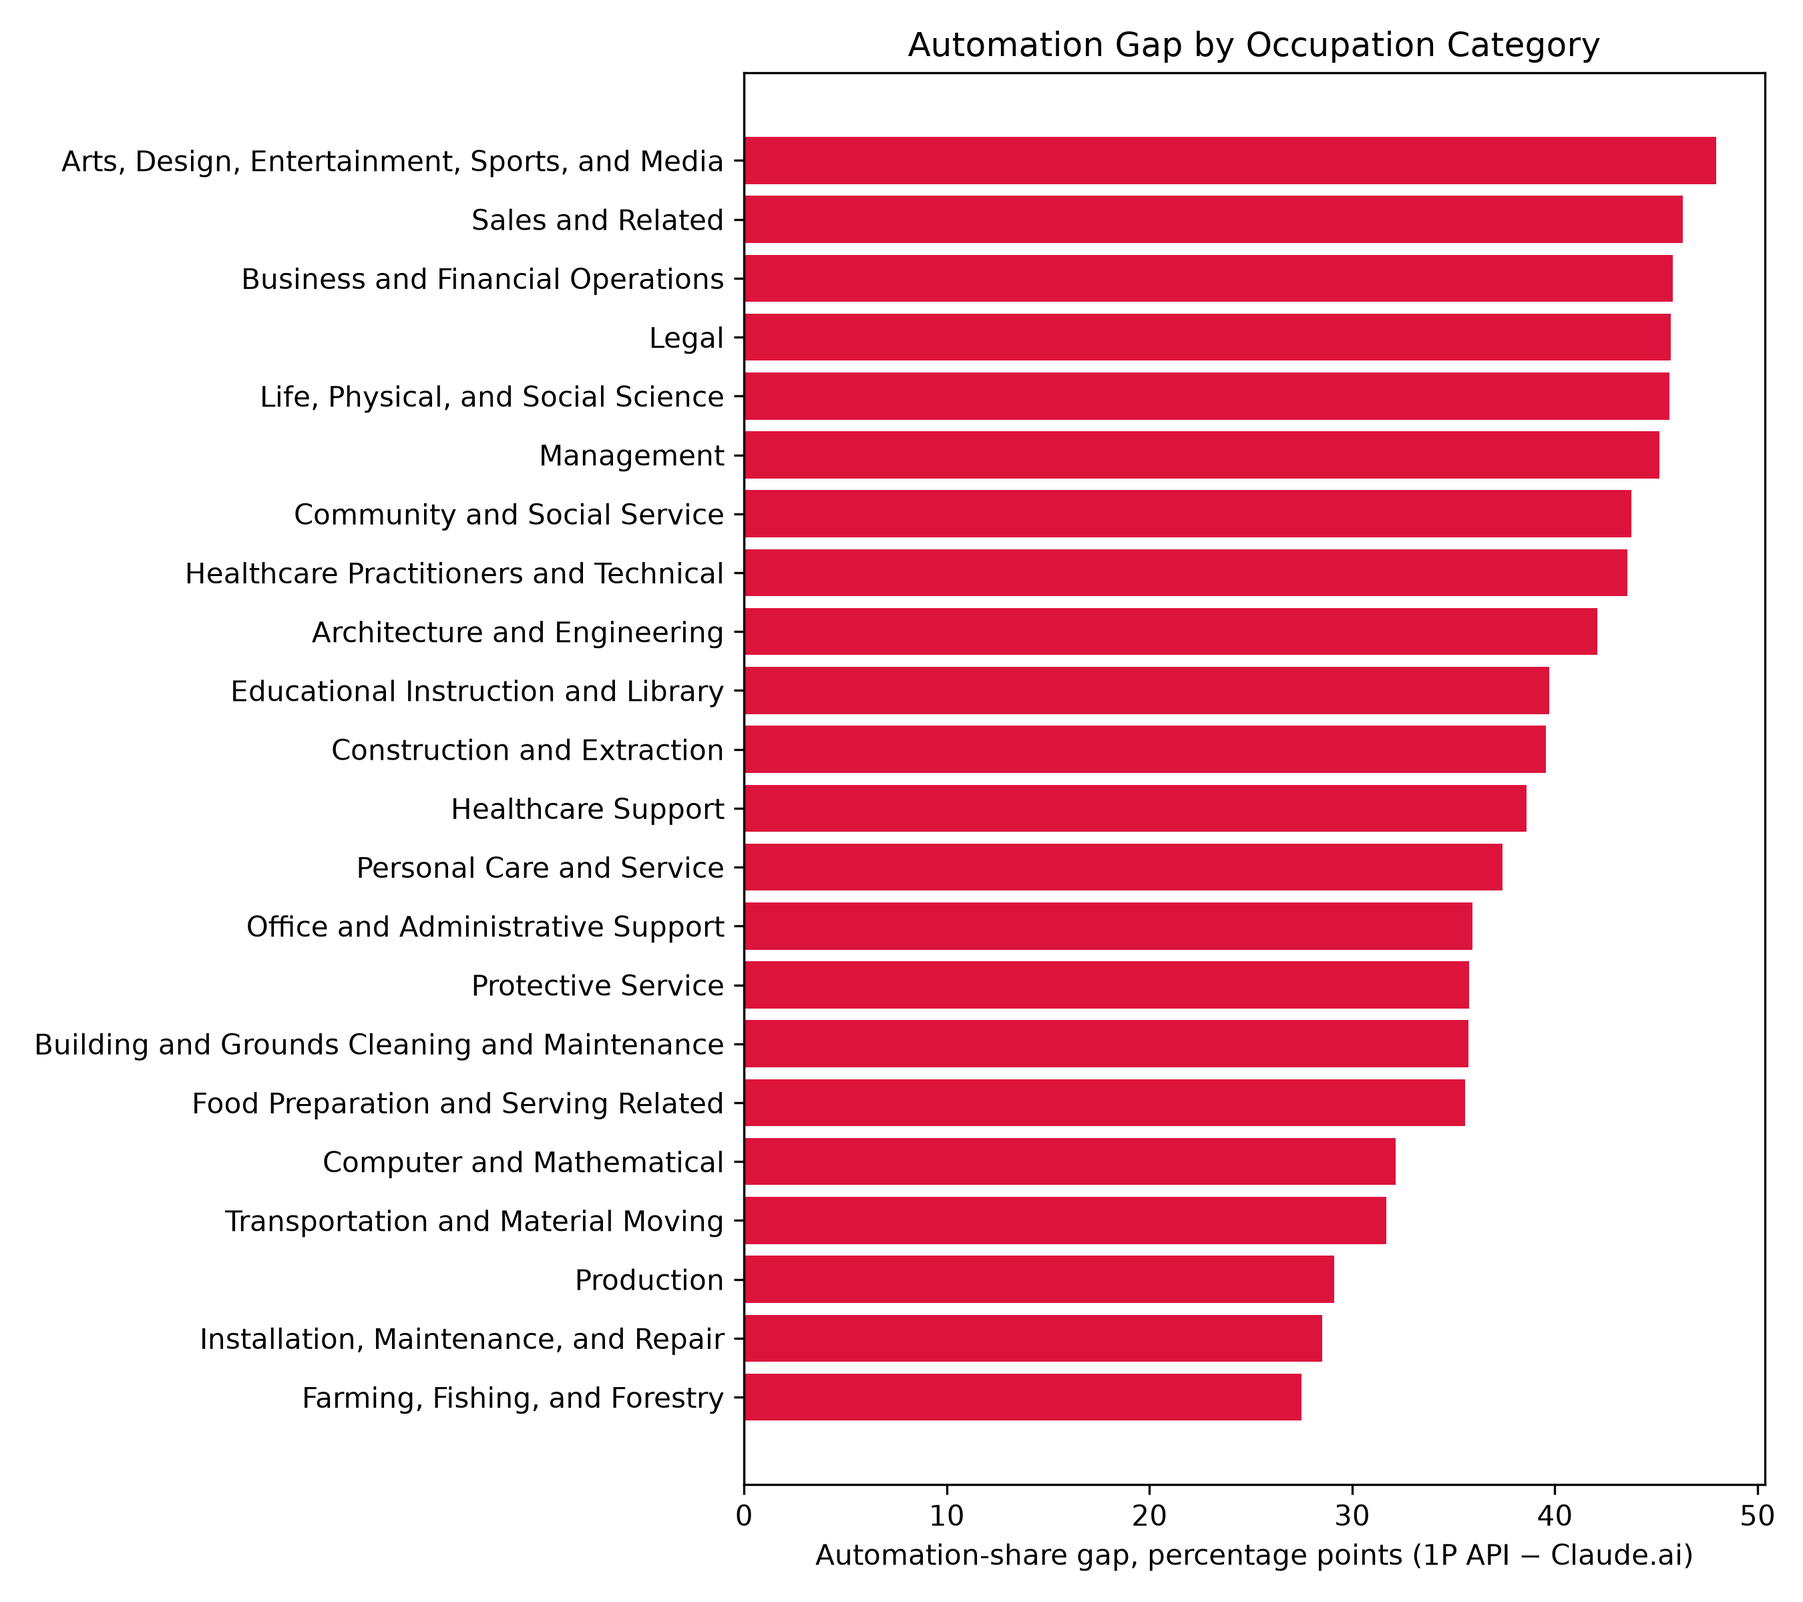
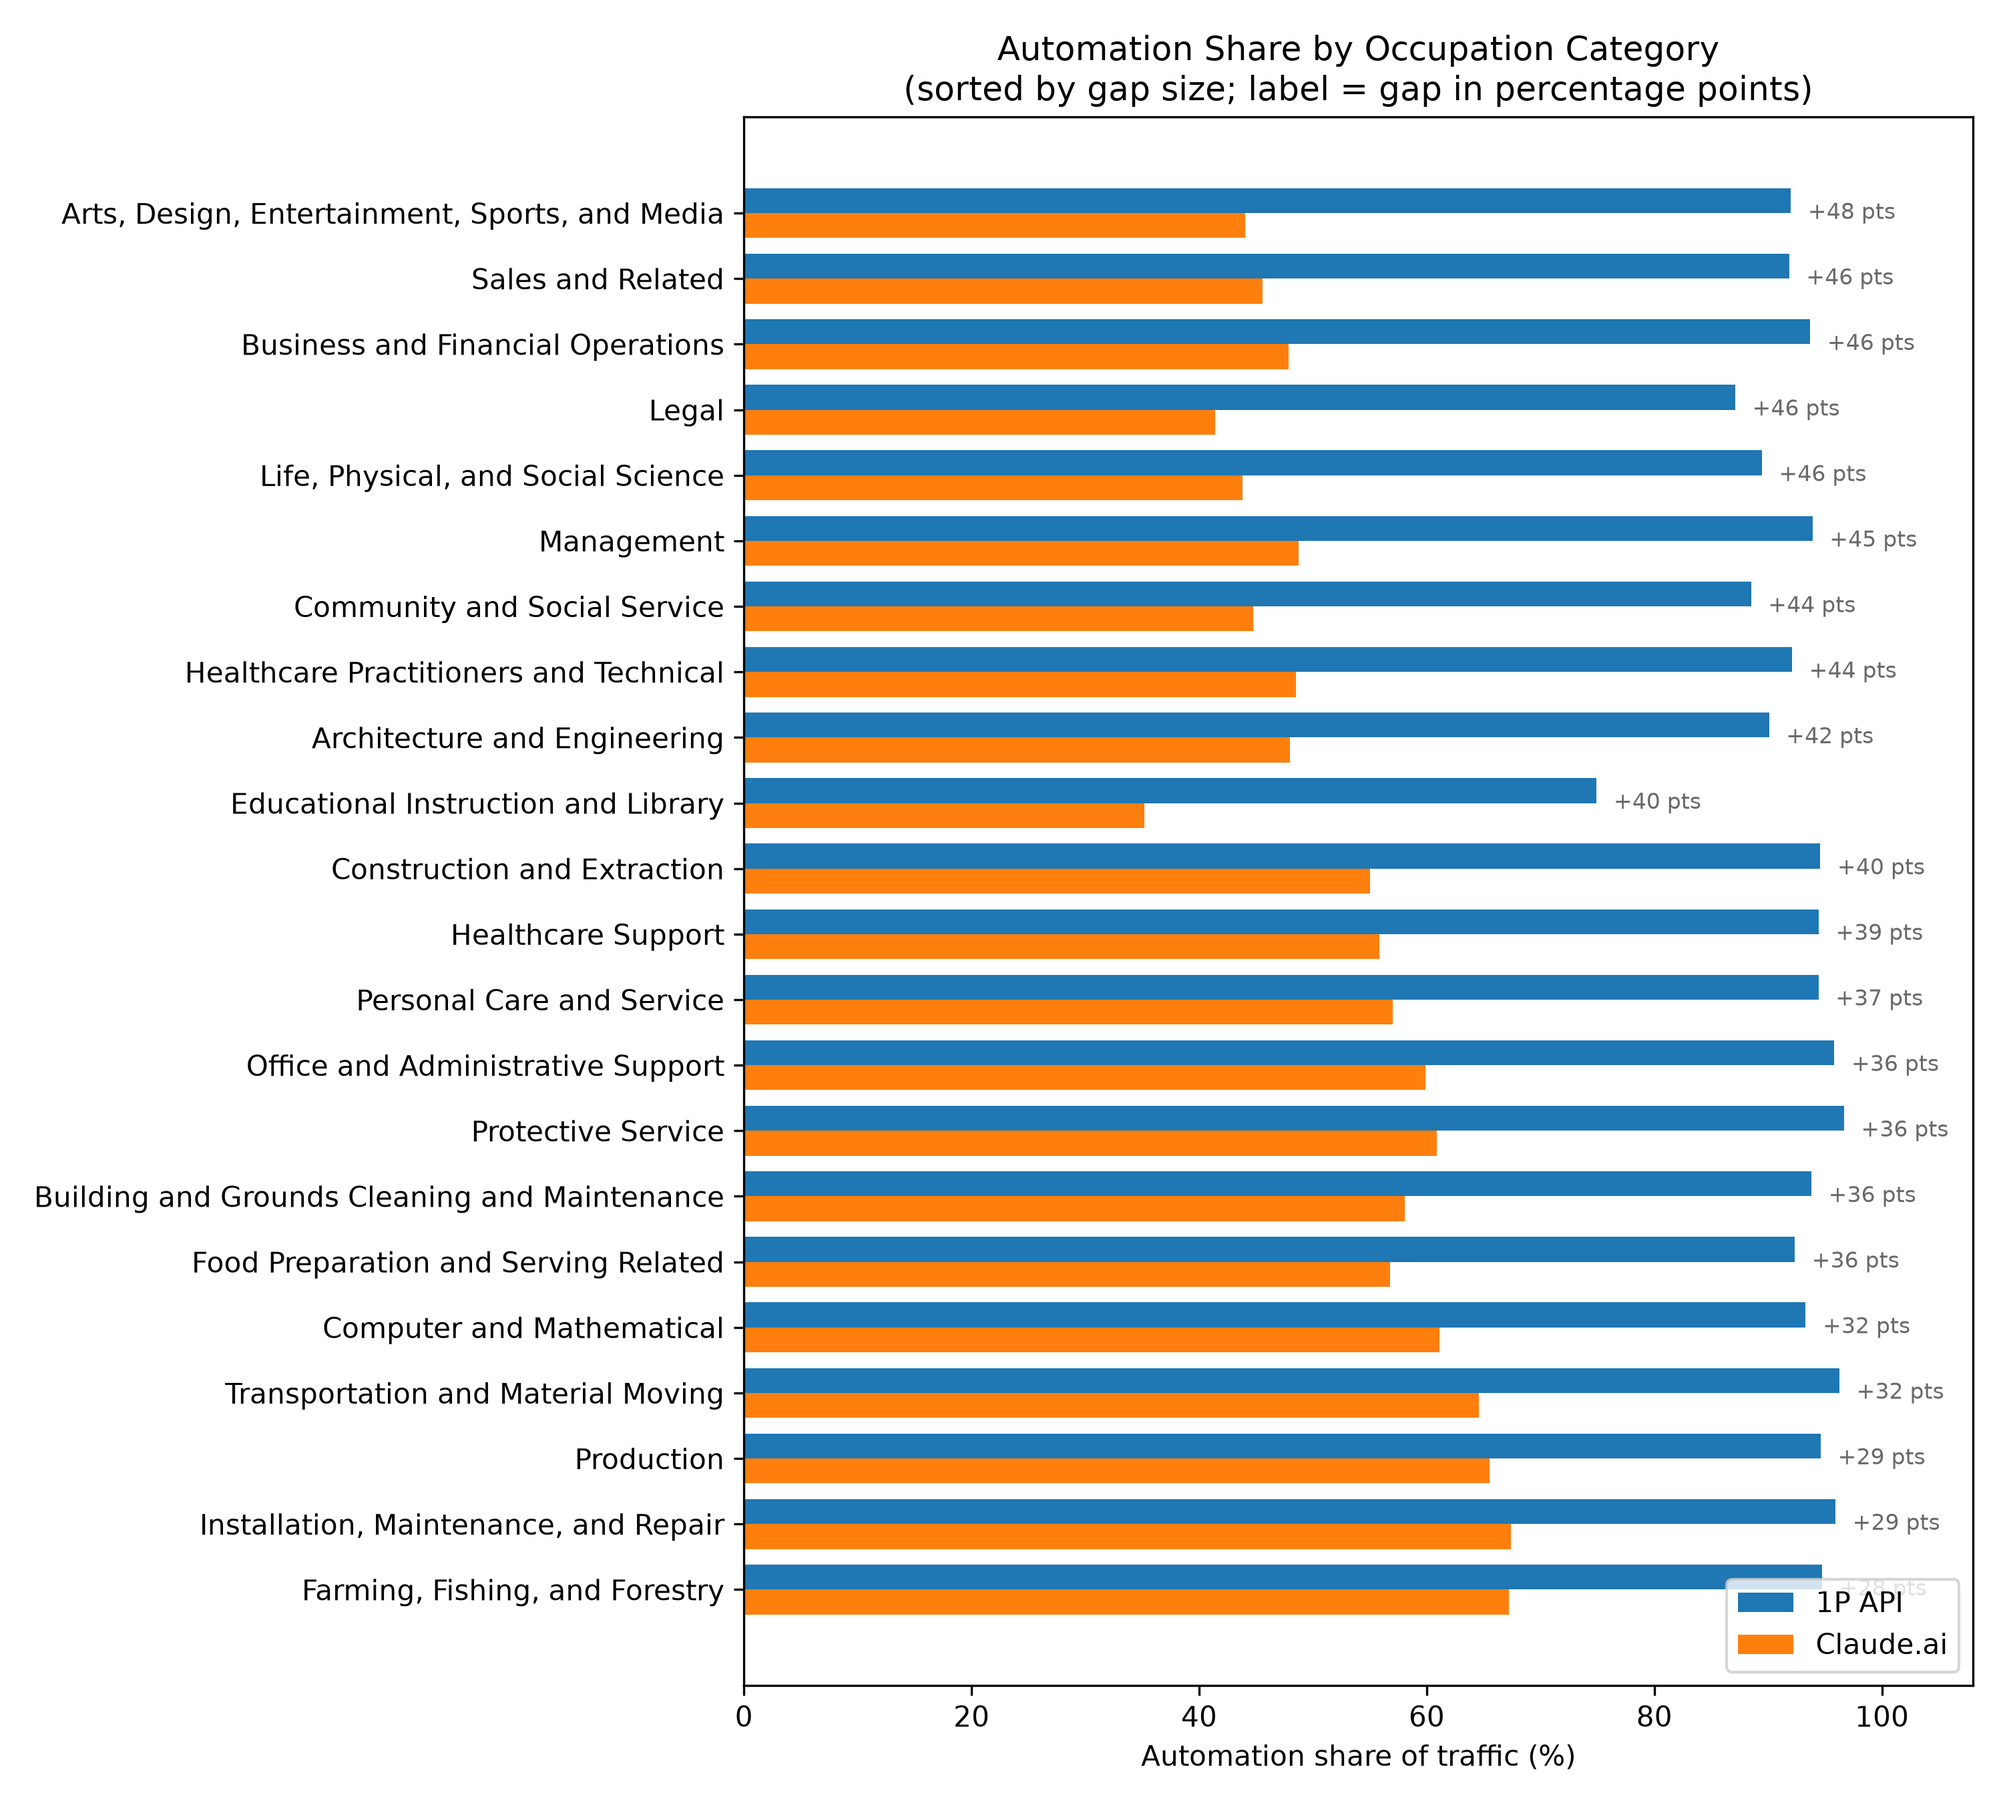
Updated Occupation category graph

diff --git a/src/profile.py b/src/profile.py
@@ -1,7 +1,7 @@
 from pathlib import Path
+import numpy as np
 import pandas as pd
 import matplotlib.pyplot as plt
-import numpy as np
 
 
 DATA_DIR = Path("data")
@@ -10,7 +10,11 @@ OUTPUT_DIR = DATA_DIR / "profile"
 CLAUDE_FILE = DATA_DIR / "aei_claude_ai_2026-06-26.csv"
 API_FILE = DATA_DIR / "aei_1p_api_2026-06-26.csv"
 
-
+# 2018 SOC major-group codes -> names. node_external_id for soc_occupation
+# rows is a detailed SOC code like "13-1199.06"; the first two digits are
+# the major group. This lets us roll ~800 detailed occupations up into the
+# ~23 broad "occupation categories" Q3 asks about, instead of only being
+# able to compare the handful of exact titles that show up in both top-10s.
 SOC_MAJOR_GROUPS = {
     "11": "Management",
     "13": "Business and Financial Operations",
@@ -41,17 +45,17 @@ COLLAB_METRICS = [
     "collaboration_bucket_automation_pct",
     "collaboration_bucket_augmentation_pct",
 ]
- 
 
 
 def load_data():
     claude = pd.read_csv(CLAUDE_FILE)
     api = pd.read_csv(API_FILE)
- 
+
     claude["source"] = "Claude.ai"
     api["source"] = "1P API"
- 
+
     return pd.concat([claude, api], ignore_index=True)
+
 
 def add_major_group(df):
     """Attach a SOC major-occupation-group label, for soc_occupation rows."""
@@ -71,19 +75,19 @@ def plot_collaboration(df):
         & (df["geo_level"] == "global")
         & (df["metric_id"].isin(COLLAB_METRICS))
     ]
- 
+
     if data.empty:
         print("No collaboration data available.")
         return
- 
+
     pivot = data.pivot_table(
         index="source", columns="metric_id", values="value", aggfunc="mean"
     )
- 
+
     ax = pivot.plot(kind="bar")
     for container in ax.containers:
         ax.bar_label(container, fmt="%.1f")
- 
+
     plt.title("Automation vs. Augmentation (All Traffic, Unadjusted)")
     plt.ylabel("Percentage")
     plt.xlabel("Source")
@@ -91,29 +95,29 @@ def plot_collaboration(df):
     plt.tight_layout()
     plt.savefig(OUTPUT_DIR / "collaboration.png", dpi=300)
     plt.close()
- 
- 
+
+
 def plot_use_case(df):
     metrics = ["use_case_work_pct", "use_case_personal_pct", "use_case_coursework_pct"]
- 
+
     data = df[
         (df["category_name"] == "overall")
         & (df["geo_level"] == "global")
         & (df["metric_id"].isin(metrics))
     ]
- 
+
     if data.empty:
         print("No use-case data available.")
         return
- 
+
     pivot = data.pivot_table(
         index="source", columns="metric_id", values="value", aggfunc="mean"
     )
- 
+
     ax = pivot.plot(kind="bar")
     for container in ax.containers:
         ax.bar_label(container, fmt="%.1f")
- 
+
     plt.title("AI Use by Use Case")
     plt.ylabel("Percentage")
     plt.xlabel("Source")
@@ -121,6 +125,7 @@ def plot_use_case(df):
     plt.tight_layout()
     plt.savefig(OUTPUT_DIR / "use_case.png", dpi=300)
     plt.close()
+
 
 def plot_occupation(df):
     """Top-10 occupation usage share per source (unchanged from before —
@@ -130,11 +135,11 @@ def plot_occupation(df):
         & (df["geo_level"] == "global")
         & (df["metric_id"] == "pct")
     ]
- 
+
     if data.empty:
         print("No occupation data available.")
         return
- 
+
     top = (
         data.groupby(["source", "node_name"])["value"]
         .mean()
@@ -143,22 +148,22 @@ def plot_occupation(df):
         .groupby("source")
         .head(10)
     )
- 
+
     for source in top["source"].unique():
         subset = top[top["source"] == source]
- 
+
         plt.figure(figsize=(9, 6))
         plt.barh(subset["node_name"], subset["value"])
         plt.title(f"Top Occupation Usage — {source}")
         plt.xlabel("Percentage")
         plt.gca().invert_yaxis()
         plt.tight_layout()
- 
+
         filename = "occupation_claude.png" if source == "Claude.ai" else "occupation_api.png"
         plt.savefig(OUTPUT_DIR / filename, dpi=300)
         plt.close()
- 
- 
+
+
 def plot_artifact_type_mix(df, top_n=12):
     """NEW — how do businesses (1P API) and individuals (Claude.ai)
     actually use AI, in terms of the kind of output produced? Compares
@@ -173,30 +178,30 @@ def plot_artifact_type_mix(df, top_n=12):
         & (df["metric_id"].str.startswith("artifact_"))
         & (df["metric_id"].str.endswith("_pct"))
     ]
- 
+
     if data.empty:
         print("No artifact-type data available.")
         return
- 
+
     pivot = data.pivot_table(
         index="metric_id", columns="source", values="value", aggfunc="mean"
     ).dropna(how="all")
- 
+
     if pivot.empty:
         print("No artifact-type data present in both sources.")
         return
- 
+
     # keep the top_n types by their largest share in either source
     pivot["_max"] = pivot.max(axis=1)
     pivot = pivot.sort_values("_max", ascending=True).drop(columns="_max").tail(top_n)
- 
+
     pivot.index = (
         pivot.index.str.replace("artifact_", "", regex=False)
         .str.replace("_pct", "", regex=False)
         .str.replace("_", " ", regex=False)
         .str.title()
     )
- 
+
     ax = pivot.plot(kind="barh", figsize=(9, 8))
     plt.xlabel("Share of traffic (%)")
     plt.title(f"Top {top_n} Output Types: Businesses (1P API) vs. Individuals (Claude.ai)")
@@ -204,14 +209,14 @@ def plot_artifact_type_mix(df, top_n=12):
     plt.tight_layout()
     plt.savefig(OUTPUT_DIR / "artifact_type_mix.png", dpi=300)
     plt.close()
- 
+
     print(f"\nArtifact/output type mix (top {top_n} by max share):")
     print(pivot.round(1).to_string())
- 
- 
+
+
 def plot_occupation_category_gap(df, min_group_count=3):
     """FIX #1 — does the automation gap differ by occupation category?
- 
+
     Rolls detailed SOC occupations up to their 23 major groups and
     compares the mean automation share of each group, Claude.ai vs.
     1P API. Answers Q3's second question directly, instead of only
@@ -219,55 +224,76 @@ def plot_occupation_category_gap(df, min_group_count=3):
     appear in both sources' top-10 lists.
     """
     df = add_major_group(df)
- 
+
     base = df[
         (df["category_name"] == "soc_occupation")
         & (df["geo_level"] == "global")
         & (df["metric_id"] == "collaboration_bucket_automation_pct")
         & (df["major_group"].notna())
     ]
- 
+
     if base.empty:
         print("No occupation-category collaboration data available.")
         return
- 
+
     # require a minimum number of detailed occupations per group per source
     # so a single noisy occupation can't stand in for a whole category
     counts = base.groupby(["source", "major_group"])["node_name"].nunique()
     valid_groups = counts[counts >= min_group_count].index
- 
+
     base = base[
         base.set_index(["source", "major_group"]).index.isin(valid_groups)
     ]
- 
+
     pivot = base.pivot_table(
         index="major_group", columns="source", values="value", aggfunc="mean"
     ).dropna()
- 
+
     if pivot.empty:
         print("No occupation categories present in both sources with enough data.")
         return
- 
+
     pivot["gap"] = pivot["1P API"] - pivot["Claude.ai"]
     pivot = pivot.sort_values("gap")
- 
-    plt.figure(figsize=(9, 8))
-    colors = ["steelblue" if g < 0 else "crimson" for g in pivot["gap"]]
-    plt.barh(pivot.index, pivot["gap"], color=colors)
-    plt.axvline(0, color="black", linewidth=0.8)
-    plt.xlabel("Automation-share gap, percentage points (1P API − Claude.ai)")
-    plt.title("Automation Gap by Occupation Category")
+
+    # Grouped bar of the actual automation % per source, not just the gap.
+    # The gap alone can't distinguish "95% vs 50%" from "60% vs 15%" — same
+    # gap, very different stories — and since every category has a positive
+    # gap here, a diverging (red/blue by sign) chart would render as a single
+    # color throughout, which hides more than it shows. This version plots
+    # both sources' actual levels, still sorted by gap size, and annotates
+    # the gap at the end of each pair of bars.
+    fig, ax = plt.subplots(figsize=(10, 9))
+    y = np.arange(len(pivot))
+    bar_h = 0.38
+
+    ax.barh(y + bar_h / 2, pivot["1P API"], height=bar_h, label="1P API", color="#1f77b4")
+    ax.barh(y - bar_h / 2, pivot["Claude.ai"], height=bar_h, label="Claude.ai", color="#ff7f0e")
+
+    ax.set_yticks(y)
+    ax.set_yticklabels(pivot.index)
+    ax.set_xlabel("Automation share of traffic (%)")
+    ax.set_title("Automation Share by Occupation Category\n(sorted by gap size; label = gap in percentage points)")
+    ax.set_xlim(0, 108)
+    ax.legend(loc="lower right")
+
+    for yi, (api_val, claude_val, gap) in enumerate(
+        zip(pivot["1P API"], pivot["Claude.ai"], pivot["gap"])
+    ):
+        ax.text(max(api_val, claude_val) + 1.5, yi, f"+{gap:.0f} pts",
+                 va="center", fontsize=8, color="dimgray")
+
     plt.tight_layout()
     plt.savefig(OUTPUT_DIR / "occupation_category_gap.png", dpi=300)
     plt.close()
- 
+
     print("\nAutomation share by occupation category (1P API vs. Claude.ai):")
     print(pivot.round(1).to_string())
- 
- 
+
+
 def plot_automation_work_only(df, work_threshold=60.0):
     """FIX #2 — control for the use-case mix confound.
- 
+
     Restricts the automation-vs-augmentation comparison to occupations
     that are predominantly WORK use cases (>= work_threshold%) in BOTH
     sources, usage-weighted. This holds "the task is work" roughly fixed
@@ -275,20 +301,20 @@ def plot_automation_work_only(df, work_threshold=60.0):
     once the personal/coursework mix difference is controlled for.
     """
     base = df[(df["category_name"] == "soc_occupation") & (df["geo_level"] == "global")]
- 
+
     work_share = base[base["metric_id"] == "use_case_work_pct"]
     work_wide = work_share.pivot_table(
         index="node_name", columns="source", values="value", aggfunc="mean"
     ).dropna()
- 
+
     matched_nodes = work_wide[
         (work_wide["Claude.ai"] >= work_threshold) & (work_wide["1P API"] >= work_threshold)
     ].index
- 
+
     if len(matched_nodes) == 0:
         print(f"No occupations exceed {work_threshold}% work-share in both sources.")
         return
- 
+
     usage = (
         base[base["metric_id"] == "pct"]
         .groupby(["source", "node_name"])["value"]
@@ -296,16 +322,16 @@ def plot_automation_work_only(df, work_threshold=60.0):
         .rename("usage_pct")
         .reset_index()
     )
- 
+
     collab = base[
         base["metric_id"].isin(COLLAB_METRICS) & base["node_name"].isin(matched_nodes)
     ].merge(usage, on=["source", "node_name"], how="left")
     collab["usage_pct"] = collab["usage_pct"].fillna(0)
- 
+
     def wavg(g):
         weights = g["usage_pct"].to_numpy() + 1e-9  # avoid all-zero weights
         return np.average(g["value"].to_numpy(), weights=weights)
- 
+
     result = (
         collab.groupby(["source", "metric_id"])
         .apply(wavg, include_groups=False)
@@ -313,11 +339,11 @@ def plot_automation_work_only(df, work_threshold=60.0):
         .reset_index()
         .pivot(index="source", columns="metric_id", values="value")
     )
- 
+
     ax = result.plot(kind="bar")
     for container in ax.containers:
         ax.bar_label(container, fmt="%.1f")
- 
+
     plt.title(
         f"Automation vs. Augmentation\n(Work-Dominant Occupations Only, "
         f"\u2265{work_threshold:.0f}% Work Share, Usage-Weighted)"
@@ -328,27 +354,27 @@ def plot_automation_work_only(df, work_threshold=60.0):
     plt.tight_layout()
     plt.savefig(OUTPUT_DIR / "collaboration_work_only.png", dpi=300)
     plt.close()
- 
+
     print(f"\nMatched {len(matched_nodes)} occupations with >= {work_threshold}% "
           f"work share in both sources:")
     print(result.round(1).to_string())
- 
- 
+
+
 def main():
     OUTPUT_DIR.mkdir(parents=True, exist_ok=True)
- 
+
     df = load_data()
- 
+
     plot_collaboration(df)
     plot_use_case(df)
     plot_occupation(df)
     plot_artifact_type_mix(df)
     plot_occupation_category_gap(df)
     plot_automation_work_only(df)
- 
+
     print("\nProfile plots created successfully.")
     print(f"Output directory: {OUTPUT_DIR}")
- 
- 
+
+
 if __name__ == "__main__":
     main()
